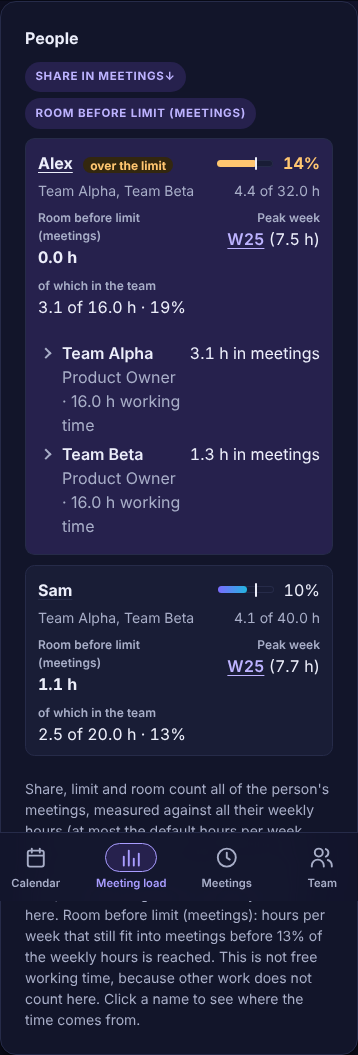
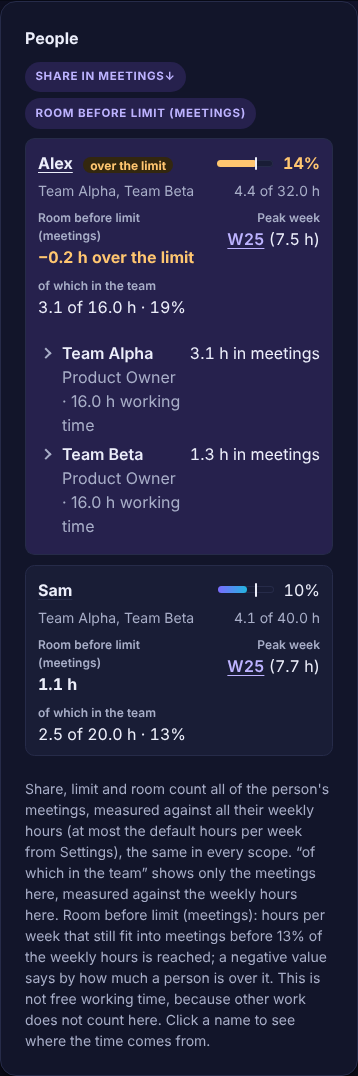
Address review of the phone people rows (#447)
- Render the people section before the warnings in the source on phones
  (MediaQuery), so reading and Tab order follow the screen; drop the CSS
  order rules.
- Hide the column names shown on the rows from screen readers.
- Give the people table explicit table roles, since its rows are grids on
  phones.
- Mention the phone rows in the in-app manual (EN, DE).
- Re-shoot the PNGs without the tab bar, with the merged Room text (#448).

diff --git a/src/ui/views/LoadView.svelte b/src/ui/views/LoadView.svelte
@@ -1,5 +1,6 @@
 <script lang="ts">
   import { tick } from 'svelte';
+  import { MediaQuery } from 'svelte/reactivity';
   import { areaShare } from '../../core/areaCosts';
   import { costSummary } from '../../core/cost';
   import { addDays, isoWeek } from '../../core/date';
@@ -401,6 +402,8 @@
   const unitLabel = $derived(scopeTeam?.name);
 
   const uid = $props.id();
+  /** The phone layout of the people table (#447): same breakpoint as its CSS. */
+  const phone = new MediaQuery('max-width: 600px');
 </script>
 
 <div class="load stack">
@@ -413,7 +416,10 @@
   {#snippet region(id: string, title: string, body: import('svelte').Snippet)}
     <!-- svelte-ignore a11y_no_noninteractive_tabindex (scrollable region must be keyboard reachable) -->
     <div class="scroll" role="region" aria-labelledby="{uid}-{id}" tabindex="0">
-      <table>
+      <!-- Explicit roles: the people rows are drawn as grids on phones (#447), which some
+           browsers (Safari) take as losing the table semantics. -->
+      <!-- svelte-ignore a11y_no_redundant_roles (Safari, see above) -->
+      <table role="table">
         <caption id="{uid}-{id}">{title}</caption>
         {@render body()}
       </table>
@@ -481,12 +487,19 @@
   {/snippet}
 
   {#snippet personBody()}
-    <thead>
-      <tr>
-        <th scope="col">{$t('load.col.person')}</th>
-        <th scope="col">{$t('load.col.units')}</th>
-        <th scope="col" class="num">{$t('load.col.hours')}</th>
-        <th scope="col" class="sortable" aria-sort={sortBy === 'share' ? 'descending' : undefined}>
+    <!-- svelte-ignore a11y_no_redundant_roles (Safari, see above) -->
+    <thead role="rowgroup">
+      <!-- svelte-ignore a11y_no_redundant_roles (Safari, see above) -->
+      <tr role="row">
+        <th scope="col" role="columnheader">{$t('load.col.person')}</th>
+        <th scope="col" role="columnheader">{$t('load.col.units')}</th>
+        <th scope="col" role="columnheader" class="num">{$t('load.col.hours')}</th>
+        <th
+          scope="col"
+          role="columnheader"
+          class="sortable"
+          aria-sort={sortBy === 'share' ? 'descending' : undefined}
+        >
           <button type="button" class="sort" onclick={() => (sortBy = 'share')}
             >{$t('load.col.fte')}{#if sortBy !== 'share'}<span class="sr-only"
                 >, {$t('load.sort')}</span
@@ -494,10 +507,13 @@
           >
         </th>
         {#if showHere}
-          <th scope="col" class="num">{$t(area ? 'load.col.hereArea' : 'load.col.here')}</th>
+          <th scope="col" role="columnheader" class="num"
+            >{$t(area ? 'load.col.hereArea' : 'load.col.here')}</th
+          >
         {/if}
         <th
           scope="col"
+          role="columnheader"
           class="num sortable"
           aria-sort={sortBy === 'free' ? 'descending' : undefined}
         >
@@ -507,14 +523,16 @@
               >{/if}{#if sortBy === 'free'}<span aria-hidden="true"> ↓</span>{/if}</button
           >
         </th>
-        <th scope="col" class="num">{$t('load.col.peak')}</th>
+        <th scope="col" role="columnheader" class="num">{$t('load.col.peak')}</th>
       </tr>
     </thead>
-    <tbody>
+    <!-- svelte-ignore a11y_no_redundant_roles (Safari, see above) -->
+    <tbody role="rowgroup">
       {#each sorted as p (p.person.id)}
         {@const over = overMax(p.average, p.cap, maxFte)}
-        <tr data-person={p.person.id} class:open={openPerson === p.person.id}>
-          <th scope="row">
+        <!-- svelte-ignore a11y_no_redundant_roles (Safari, see above) -->
+        <tr role="row" data-person={p.person.id} class:open={openPerson === p.person.id}>
+          <th scope="row" role="rowheader">
             <button
               type="button"
               class="who"
@@ -535,7 +553,7 @@
               >
             {/if}
           </th>
-          <td class="units"
+          <td role="cell" class="units"
             >{p.units.length === 0
               ? '–'
               : p.units.every((u) => u.id === ORG_UNIT)
@@ -547,10 +565,10 @@
                       .map((u) => u.name)
                       .join(', ')}</td
           >
-          <td class="num nowrap hours"
+          <td role="cell" class="num nowrap hours"
             >{$t('load.hoursOf', { hours: hours(p.average), of: hours(p.cap) })}</td
           >
-          <td class="nowrap share-cell">
+          <td role="cell" class="nowrap share-cell">
             <span class="share">
               <span class="bar" aria-hidden="true"
                 ><i style:width="{barWidth(shareKey(p))}%" class:over></i><b></b></span
@@ -561,7 +579,10 @@
             </span>
           </td>
           {#if showHere}
-            <td class="num nowrap here" data-cap={$t(area ? 'load.col.hereArea' : 'load.col.here')}
+            <td
+              role="cell"
+              class="num nowrap here"
+              data-cap={$t(area ? 'load.col.hereArea' : 'load.col.here')}
               >{$t('load.here', {
                 hours: hours(p.here.hours),
                 of: hours(p.here.cap),
@@ -572,12 +593,16 @@
               })}</td
             >
           {/if}
-          <td class="num nowrap free" class:over={p.free < 0} data-cap={$t('load.col.free')}
+          <td
+            role="cell"
+            class="num nowrap free"
+            class:over={p.free < 0}
+            data-cap={$t('load.col.free')}
             >{p.free < 0
               ? $t('load.freeHours.over', { hours: hours(-p.free) })
               : $t('load.freeHours', { hours: hours(p.free) })}</td
           >
-          <td class="num nowrap peak" data-cap={$t('load.col.peak')}>
+          <td role="cell" class="num nowrap peak" data-cap={$t('load.col.peak')}>
             {#if p.peak}
               {@const [before, after] = $t('load.peak', {
                 week: '\uE000',
@@ -594,8 +619,14 @@
             {/if}
           </td>
         </tr>
-        <tr class="detail" id="{uid}-detail-{p.person.id}" hidden={openPerson !== p.person.id}>
-          <td colspan={showHere ? 7 : 6}>
+        <!-- svelte-ignore a11y_no_redundant_roles (Safari, see above) -->
+        <tr
+          role="row"
+          class="detail"
+          id="{uid}-detail-{p.person.id}"
+          hidden={openPerson !== p.person.id}
+        >
+          <td role="cell" colspan={showHere ? 7 : 6}>
             <!-- Stays in the visible part of a table that scrolls sideways (phones). -->
             <div class="detail-in">
               {#if openPerson === p.person.id}
@@ -749,7 +780,27 @@
       </div>
     </section>
   {/if}
-  <section class="card warn-card" aria-labelledby="{uid}-warn">
+  {#snippet peopleCard()}
+    {#if $workspace.people.length > 0}
+      <section class="card people">
+        {@render region('person', $t('load.table.person'), personBody)}
+        <p class="note below">
+          {#if !$filter.personId}
+            {area
+              ? $t('load.table.person.noteArea', { name: area.name })
+              : showHere
+                ? $t('load.table.person.note')
+                : ''}
+          {/if}
+          {$t('load.table.person.free', { max: formatPercent($locale, maxFte) })}
+        </p>
+      </section>
+    {/if}
+  {/snippet}
+  <!-- Phones: the people answer the reader's question, so they come before the warnings (#447);
+       in the source too, so reading and Tab order follow the screen. -->
+  {#if phone.current}{@render peopleCard()}{/if}
+  <section class="card" aria-labelledby="{uid}-warn">
     <h3 id="{uid}-warn">
       {$t('load.warnings')}
       {#if warningItems.length + overlaps.length > 0}<span class="count" aria-hidden="true"
@@ -833,21 +884,7 @@
     {/if}
   </section>
 
-  {#if $workspace.people.length > 0}
-    <section class="card people">
-      {@render region('person', $t('load.table.person'), personBody)}
-      <p class="note below">
-        {#if !$filter.personId}
-          {area
-            ? $t('load.table.person.noteArea', { name: area.name })
-            : showHere
-              ? $t('load.table.person.note')
-              : ''}
-        {/if}
-        {$t('load.table.person.free', { max: formatPercent($locale, maxFte) })}
-      </p>
-    </section>
-  {/if}
+  {#if !phone.current}{@render peopleCard()}{/if}
 
   <div class="grid">
     <div class="col">
@@ -1252,7 +1289,7 @@
       text-align: left;
     }
     .people [data-cap]::before {
-      content: attr(data-cap);
+      content: attr(data-cap) / '';
       display: block;
       color: var(--text-muted);
       font-size: 0.75rem;
@@ -1287,16 +1324,6 @@
     .people .detail-in {
       position: static;
       max-width: none;
-    }
-    /* Phones: the people answer the reader's question, so they come before the warnings. */
-    .load > .people {
-      order: 1;
-    }
-    .load > .warn-card {
-      order: 2;
-    }
-    .load > .grid {
-      order: 3;
     }
   }
   .hints-title {

diff --git a/tests/e2e/weeks-load.spec.ts b/tests/e2e/weeks-load.spec.ts
@@ -752,6 +752,17 @@ for (const scheme of ['light', 'dark'] as const) {
     const warnings = panel.getByRole('region', { name: 'Warnings', exact: true });
     const [list, warn] = [await people.boundingBox(), await warnings.boundingBox()];
     expect(list!.y).toBeLessThan(warn!.y);
+    // Also in the source, so Tab reaches the people first: the first focusable element of the
+    // people section comes before the first one of the warnings.
+    const follows = await panel.evaluate((el) => {
+      const focusable = 'button, a[href], [tabindex="0"]';
+      const inPeople = el.querySelector('section.people')!.querySelector(focusable)!;
+      const inWarnings = el.querySelector(
+        'section[aria-labelledby$="-warn"] :is(button, a[href])',
+      )!;
+      return !!(inPeople.compareDocumentPosition(inWarnings) & 4);
+    });
+    expect(follows).toBe(true);
     // A tap on the name opens the breakdown per team.
     const name = people.getByRole('button', { name: 'Alex', exact: true });
     await name.click();

diff --git a/docs/accessibility.md b/docs/accessibility.md
@@ -20,7 +20,7 @@ When an area is selected in the team switcher, the area's sidebar entry holds tw
 - **Structure tree.** The area, its teams and their people are headed sections; every person is a button that says their name and hours. The lines between the nodes are decoration and hidden from screen readers. "Show as" switches the tree to a table with a caption, which reads row by row. "Highlight" is a group of toggle buttons that marks the people only in a team, only in the area, or in both.
 - **Person card.** Pressing a person opens their card as a non-modal dialog named by the person. Focus moves into the card (to the area hours when they were asked for); Escape closes it, also while focus is back in the tree, and focus returns to the person's button or, when they left the area, to the nearest tile. Escape inside a new role only cancels that role.
 - **Overview.** Key figures, meeting costs, the cadence strip and the meeting load are headed sections; costs and load are tables with headers, and wide tables scroll inside a labelled region you can reach with Tab.
-- **Meeting load on phones.** The people table stays a table with its caption and column headers for screen readers; below 600 px its rows are drawn as stacked rows, the column names other than the two sort buttons are visually hidden, and room and peak week show their column name above the value. The people section is drawn before the warnings; the reading and Tab order stays as in the source (warnings, then people), since both are independent headed sections.
+- **Meeting load on phones.** The people table stays a table with its caption and column headers for screen readers; below 600 px its rows are drawn as stacked rows, the column names other than the two sort buttons are visually hidden, and room and peak week show their column name above the value. On phones the people section also comes before the warnings in the source, so the reading and Tab order follow the screen. The table and its rows carry explicit table roles, since some browsers drop table semantics for rows drawn as grids, and the column names shown on the rows are hidden from screen readers (the column headers already name the cells).
 - **Drill-in from the Overview.** A meeting link opens Meetings & cadence with that meeting's row highlighted (tinted, a bar on the left; an outline in forced colours) and focus on its Edit button; nothing opens for editing. The target view starts with a button "← {area} overview" that returns to the Overview and moves focus to the area's tab.
 - **Colour is never the only carrier of meaning.** The group colours (only in a team, only in the area, both) always come with the group's name, the area's colour comes with its name and icon, and load bars come with their values.
 
